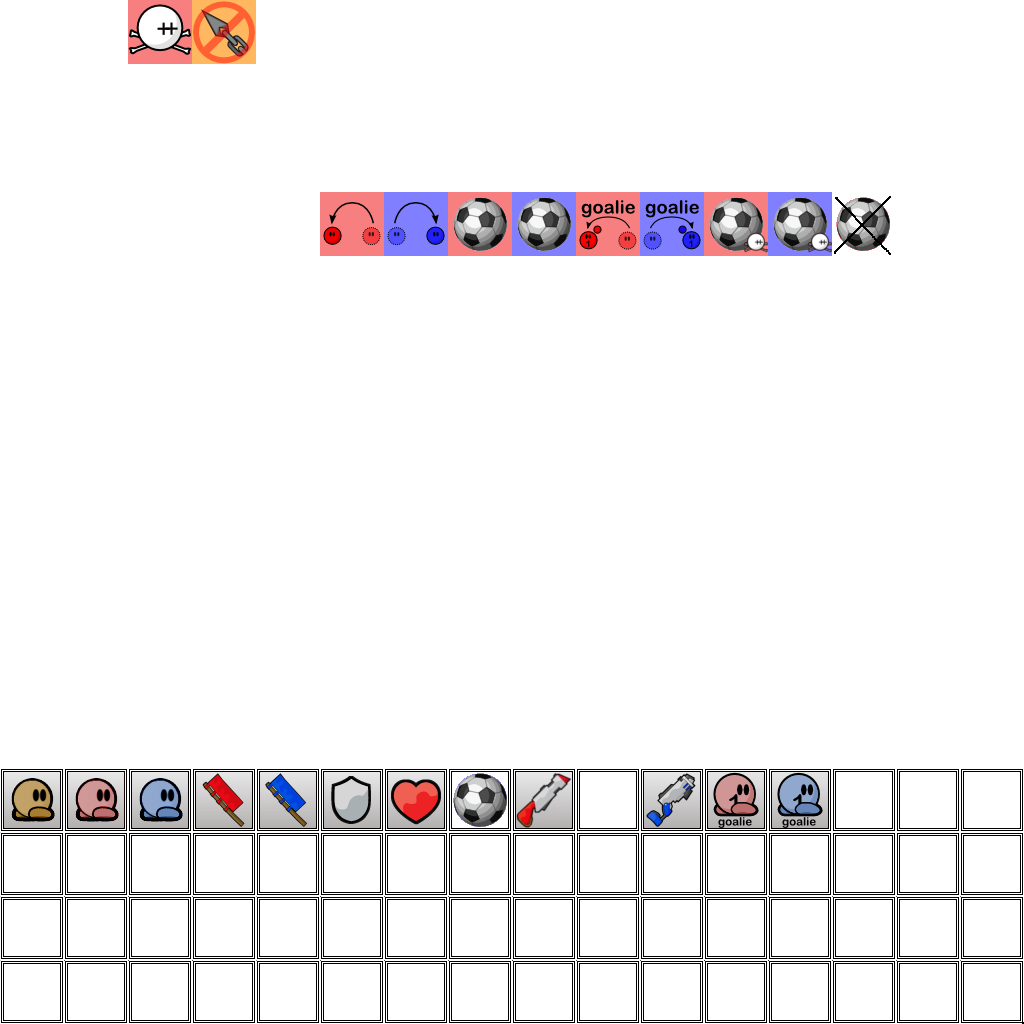
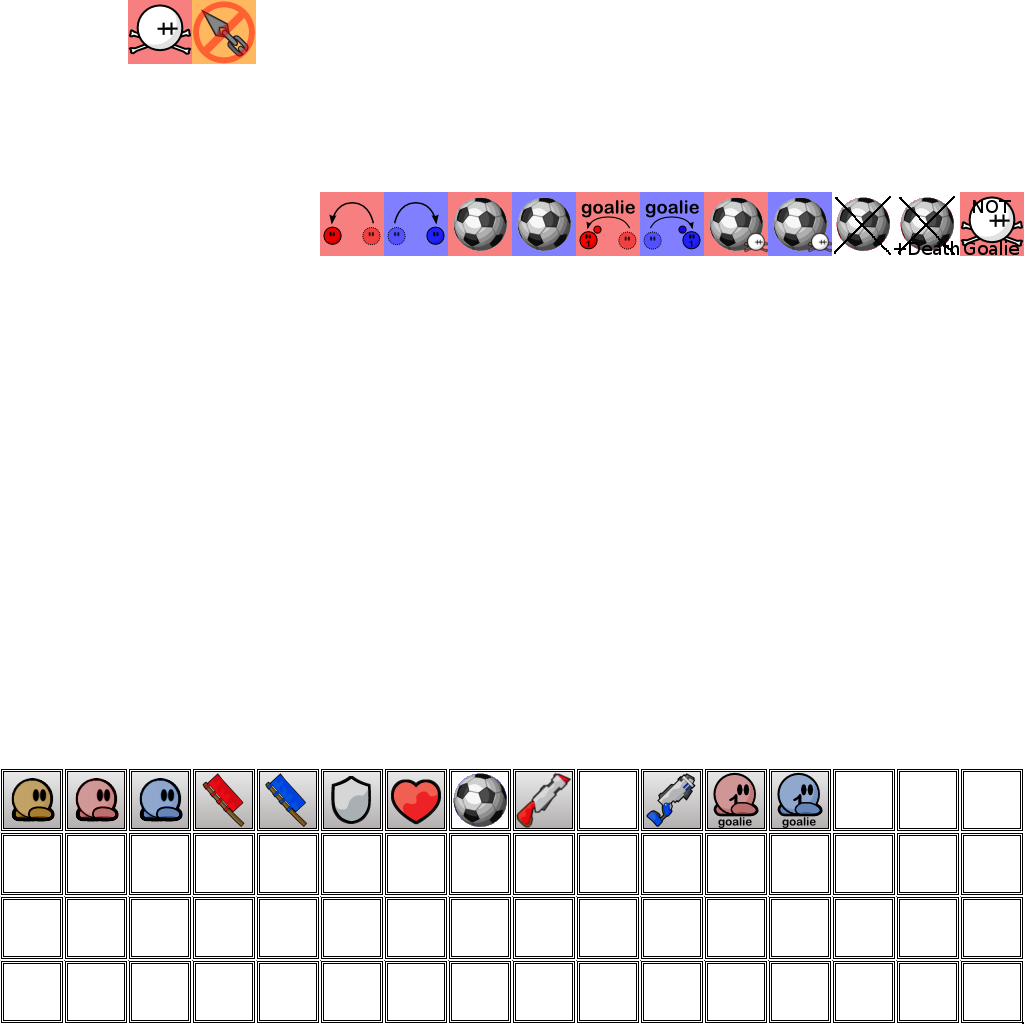
new tile

Changed region(s): [[0.875, 0.1875, 1.0, 0.25]]

diff --git a/src/game/server/entities/character.cpp b/src/game/server/entities/character.cpp
@@ -621,7 +621,8 @@ void CCharacter::Tick()
 			int coll = GameServer()->Collision()->GetCollisionAt(m_Pos.x + check_pos[i][0], m_Pos.y + check_pos[i][1]);
 			if (coll & CCollision::COLFLAG_DEATH
 					|| (CCollision::MaskSCollision(coll) == CCollision::SFLAG_LIMIT_TEAM_0 && m_pPlayer->GetTeam() == 0)
-					|| (CCollision::MaskSCollision(coll) == CCollision::SFLAG_LIMIT_TEAM_1 && m_pPlayer->GetTeam() == 1)) {
+					|| (CCollision::MaskSCollision(coll) == CCollision::SFLAG_LIMIT_TEAM_1 && m_pPlayer->GetTeam() == 1)
+					|| (CCollision::MaskSCollision(coll) == CCollision::SFLAG_LIMIT_NON_GOALIES && !m_aWeapons[WEAPON_NINJA].m_Got)) {
 				if (m_aWeapons[WEAPON_SHOTGUN].m_Ammo) {
 					coll = CCollision::MaskSCollision(coll);
 					if (coll == CCollision::SFLAG_GOAL_TEAM_0 || coll == CCollision::SFLAG_GOAL_TEAM_1) {
@@ -638,8 +639,9 @@ void CCharacter::Tick()
 				break;
 			}
 			if (m_aWeapons[WEAPON_NINJA].m_Got) {
-				if ((m_pPlayer->GetTeam() == 0 && coll & CCollision::SFLAG_GOALIE_LIMIT_0)
-					|| (m_pPlayer->GetTeam() == 1 && coll & CCollision::SFLAG_GOALIE_LIMIT_1)) {
+				coll = CCollision::MaskSCollision(coll);
+				if ((m_pPlayer->GetTeam() == 0 && coll == CCollision::SFLAG_GOALIE_LIMIT_0)
+					|| (m_pPlayer->GetTeam() == 1 && coll == CCollision::SFLAG_GOALIE_LIMIT_1)) {
 					m_Core.m_Vel = vec2(0,0);
 					m_Core.m_Pos = m_Pos = m_GoalkeeperPos;
 				}

diff --git a/src/game/collision.cpp b/src/game/collision.cpp
@@ -76,6 +76,9 @@ void CCollision::Init(class CLayers *pLayers)
 		case TILE_DEATH_BALL_SOLID:
 			m_pTiles[i].m_Index = COLFLAG_BALL_SOLID | COLFLAG_DEATH;
 			break;
+		case TILE_DEATH_NON_GOALKEEPER:
+			m_pTiles[i].m_Index = SFLAG_LIMIT_NON_GOALIES;
+			break;
 		default:
 			m_pTiles[i].m_Index = 0;
 		}

diff --git a/src/game/collision.h b/src/game/collision.h
@@ -31,7 +31,8 @@ public:
 		SFLAG_LIMIT_TEAM_0=48,
 		SFLAG_LIMIT_TEAM_1=64,
 		SFLAG_GOALIE_LIMIT_0=80,
-		SFLAG_GOALIE_LIMIT_1=96
+		SFLAG_GOALIE_LIMIT_1=96,
+		SFLAG_LIMIT_NON_GOALIES=112
 	};
 
 	CCollision();

diff --git a/src/game/mapitems.h b/src/game/mapitems.h
@@ -59,6 +59,7 @@ enum
 	TILE_GOAL_DEATH_TEAM_1,
 	TILE_BALL_SOLID,
 	TILE_DEATH_BALL_SOLID,
+	TILE_DEATH_NON_GOALKEEPER,
 
 	TILEFLAG_VFLIP=1,
 	TILEFLAG_HFLIP=2,
